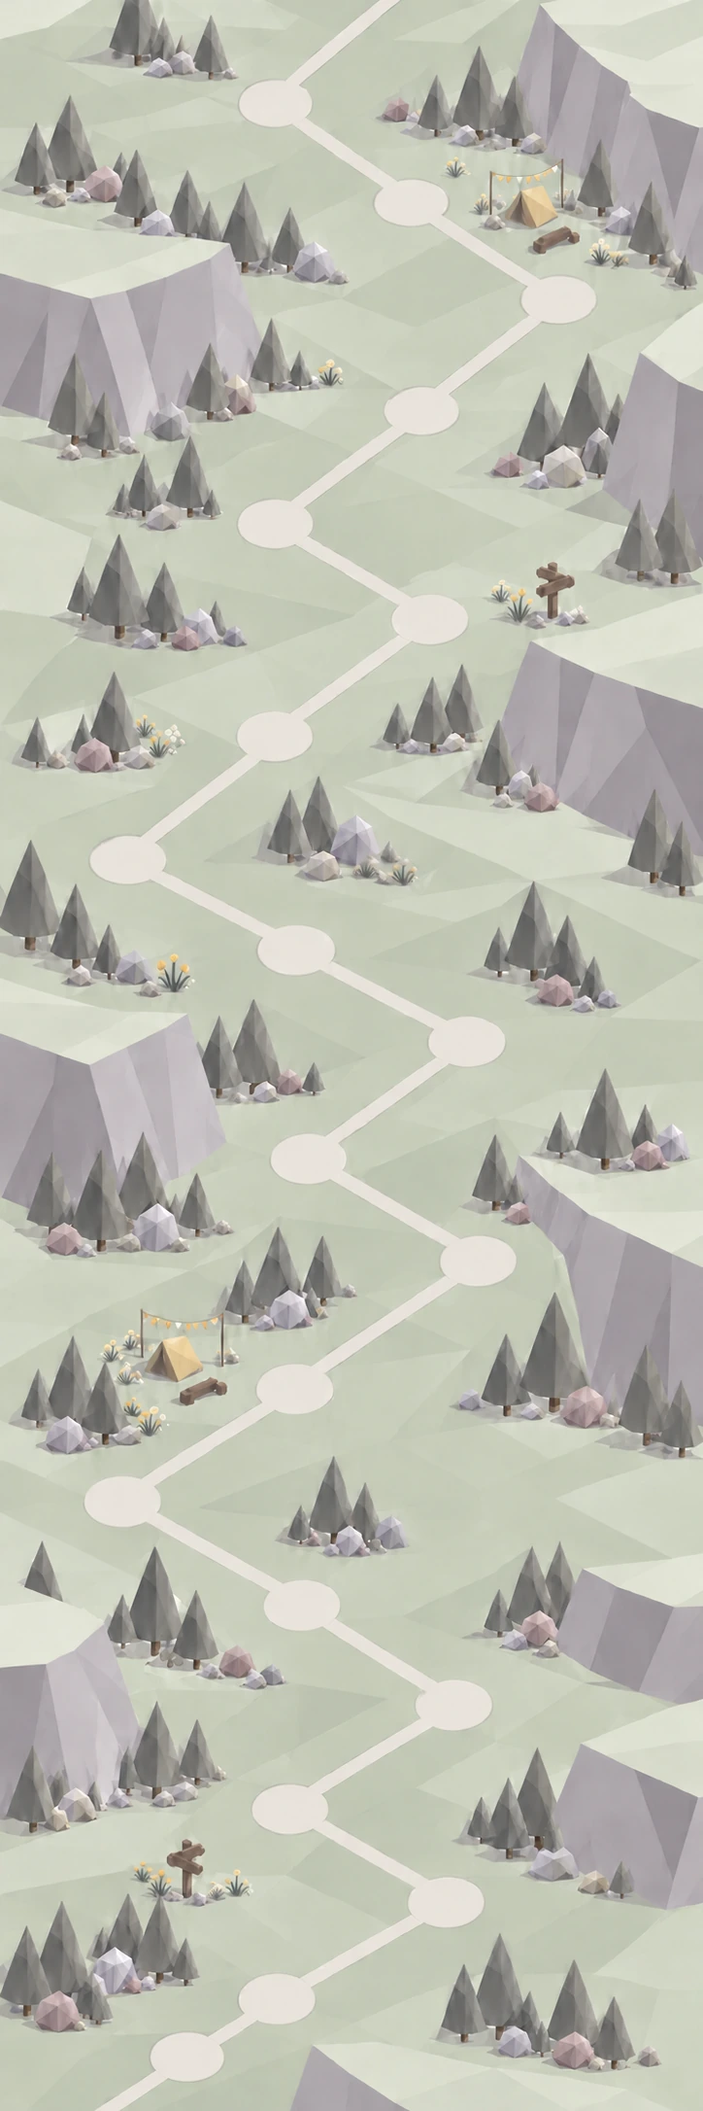
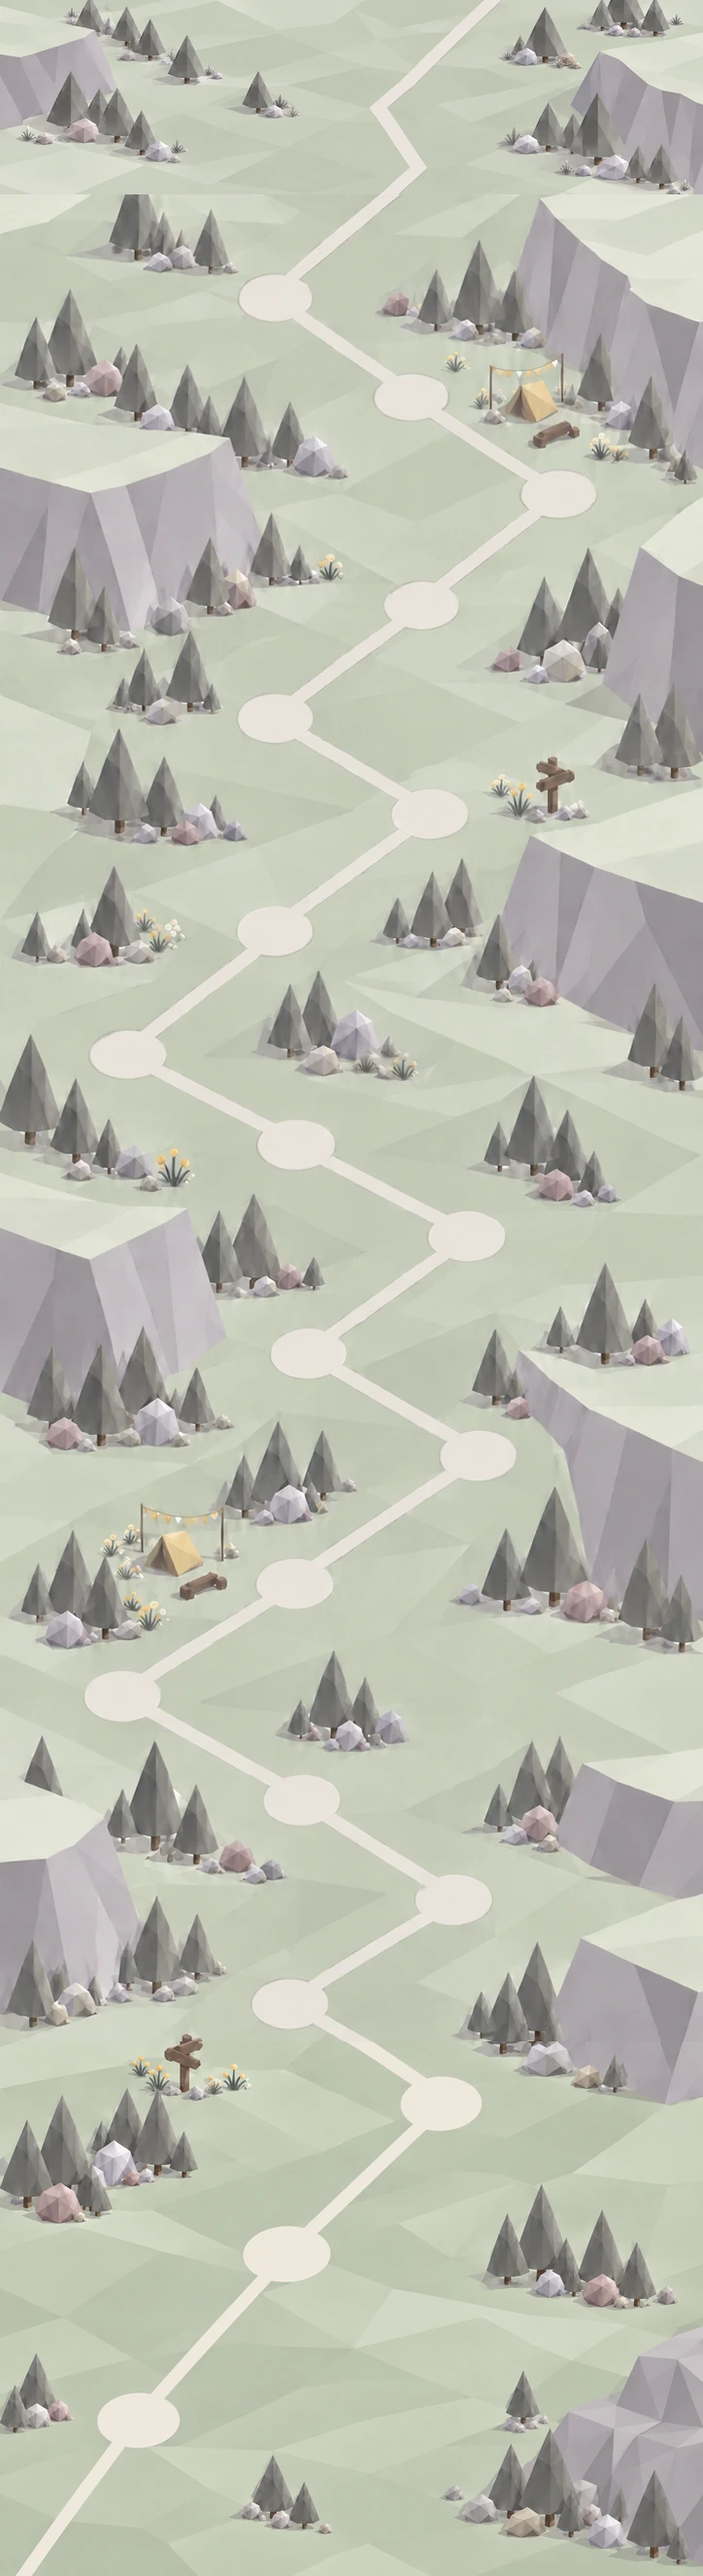
Draw map edge scenery, increase saturation and space the opening stages

diff --git a/js/map-art.js b/js/map-art.js
@@ -1,7 +1,7 @@
 "use strict";
 // Approved raster artwork; mirror the art only, keeping the live stage number upright.
 const MAP_ART_VERSION='white-outline-road-v1';
-const MAP_BACKGROUND_VERSION='pale-sage-v1';
+const MAP_BACKGROUND_VERSION='sage-extended-v2';
 const MAP_ICON_ASSETS={"active-100":{"width":512,"height":512,"renderWidth":72.818,"renderHeight":72.818,"left":-4.693,"top":-14.916},"active-125":{"width":512,"height":512,"renderWidth":72.656,"renderHeight":72.656,"left":-4.541,"top":-18.603},"active-150":{"width":512,"height":512,"renderWidth":75.502,"renderHeight":75.502,"left":-5.751,"top":-23.358},"cleared-100":{"width":512,"height":512,"renderWidth":72.496,"renderHeight":72.496,"left":-4.531,"top":-14.77},"cleared-125":{"width":512,"height":512,"renderWidth":74.136,"renderHeight":74.136,"left":-5.213,"top":-21.015},"cleared-150":{"width":512,"height":512,"renderWidth":77.283,"renderHeight":77.283,"left":-7.094,"top":-24.033},"unplayed-100":{"width":512,"height":512,"renderWidth":72.496,"renderHeight":72.496,"left":-4.531,"top":-14.628},"unplayed-125":{"width":512,"height":512,"renderWidth":74.473,"renderHeight":74.473,"left":-5.382,"top":-20.32},"unplayed-150":{"width":512,"height":512,"renderWidth":76.561,"renderHeight":76.561,"left":-6.28,"top":-24.238}};
 function mapStageVariant(n) {
     const index=(n-1)%6,pointIndex=(n-1)%20;
@@ -23,13 +23,13 @@ function mapWallMarkup(n,status='active') {
     </span>`;
 }
 // Twenty clearings measured from the approved pale-sage wallpaper, bottom to top.
-const MAP_IMAGE_WIDTH=724, MAP_IMAGE_HEIGHT=2172;
-const MAP_EDGE_SPACE=88, MAP_BOTTOM_SPACE=88;
-const MAP_ENTRY_X=136;
-const MAP_TRAIL=[[192,2116],[285.5,2056],[458.5,1957],[297.5,1861],[466.5,1754],
-    [311.5,1651],[125.5,1544],[302.5,1429],[492,1297],[316.5,1192],
-    [481.5,1071],[303.5,977],[131.5,884.4],[282.5,757],[442.1,636.9],
-    [283,539],[434.5,422],[575,308],[424,208],[283.5,106]];
+const MAP_IMAGE_WIDTH=724, MAP_IMAGE_HEIGHT=2650;
+const MAP_EDGE_SPACE=0, MAP_BOTTOM_SPACE=0;
+const MAP_ENTRY_X=75, MAP_ENTRY_Y=2580;
+const MAP_TRAIL=[[143,2489],[296,2318],[452.5,2164],[297.5,2061],[466.5,1954],
+    [311.5,1851],[125.5,1744],[302.5,1629],[492,1497],[316.5,1392],
+    [481.5,1271],[303.5,1177],[131.5,1084.4],[282.5,957],[442.1,836.9],
+    [283,739],[434.5,622],[575,508],[424,408],[283.5,306]];
 function mapTrailPoint(t) {
     // Each integer stage stays on its painted clearing, even with variable segment lengths.
     const index=clamp(t,0,1)*(MAP_TRAIL.length-1),i=Math.min(Math.floor(index),MAP_TRAIL.length-2);
@@ -40,8 +40,9 @@ function mapTrailPoint(t) {
 function mapSceneryMarkup() {
     const width=ui.mapTrack.clientWidth||400;
     const imageHeight=width*MAP_IMAGE_HEIGHT/MAP_IMAGE_WIDTH;
-    // Extend the image edges behind controls without duplicating stage clearings.
+    // The asset includes drawn top/bottom scenery; never reflect or stretch edge copies.
     return `<defs>
+        <filter id="map-palette" color-interpolation-filters="sRGB"><feColorMatrix type="saturate" values="1.2"/></filter>
         <filter id="map-icon-white-outline" x="-100%" y="-200%" width="300%" height="500%" color-interpolation-filters="sRGB">
             <feComponentTransfer in="SourceGraphic" result="dark-channels">
                 <feFuncR type="discrete" tableValues="1 0 0 0"/><feFuncG type="discrete" tableValues="1 0 0 0"/><feFuncB type="discrete" tableValues="1 0 0 0"/>
@@ -53,7 +54,5 @@ function mapSceneryMarkup() {
             <feMerge><feMergeNode in="fill-only"/><feMergeNode in="white-outline"/></feMerge>
         </filter>
         <image id="map-artwork" href="assets/stage-map.webp?v=${MAP_BACKGROUND_VERSION}" x="0" y="0" width="400" height="${imageHeight}" preserveAspectRatio="none"/></defs>
-        <use href="#map-artwork" transform="translate(0 ${MAP_EDGE_SPACE}) scale(1 -4)"/>
-        <use href="#map-artwork" transform="translate(0 ${MAP_EDGE_SPACE+imageHeight*5}) scale(1 -4)"/>
-        <use href="#map-artwork" transform="translate(0 ${MAP_EDGE_SPACE})"/>`;
+        <use href="#map-artwork" filter="url(#map-palette)"/>`;
 }

diff --git a/js/level-map.js b/js/level-map.js
@@ -64,7 +64,7 @@ function mapHeight() {
     return (ui.mapTrack.clientWidth||400)*MAP_IMAGE_HEIGHT/MAP_IMAGE_WIDTH+MAP_EDGE_SPACE+MAP_BOTTOM_SPACE;
 }
 function mapPoint(n) {
-    if(n===mapPage*MAP_PAGE_SIZE)return {x:MAP_ENTRY_X/MAP_IMAGE_WIDTH*100,y:mapHeight()-40};
+    if(n===mapPage*MAP_PAGE_SIZE)return {x:MAP_ENTRY_X/MAP_IMAGE_WIDTH*100,y:MAP_ENTRY_Y/MAP_IMAGE_WIDTH*(ui.mapTrack.clientWidth||400)};
     const point=mapTrailPoint((n-mapPage*MAP_PAGE_SIZE-1)/(MAP_PAGE_SIZE-1));
     return {x:point.x/MAP_IMAGE_WIDTH*100,y:MAP_EDGE_SPACE+point.y/MAP_IMAGE_WIDTH*(ui.mapTrack.clientWidth||400)};
 }
